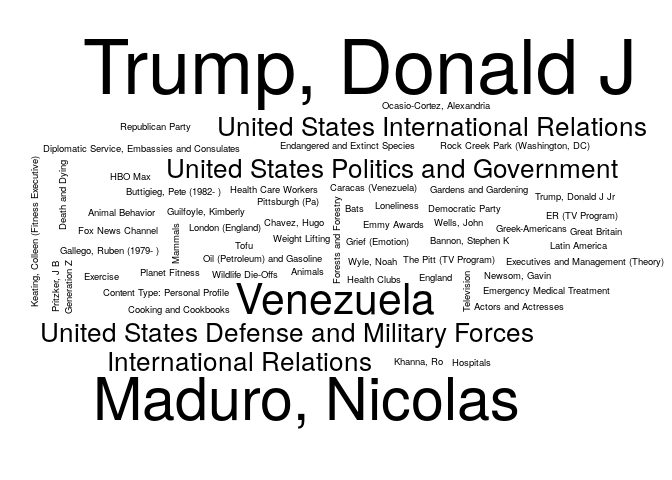
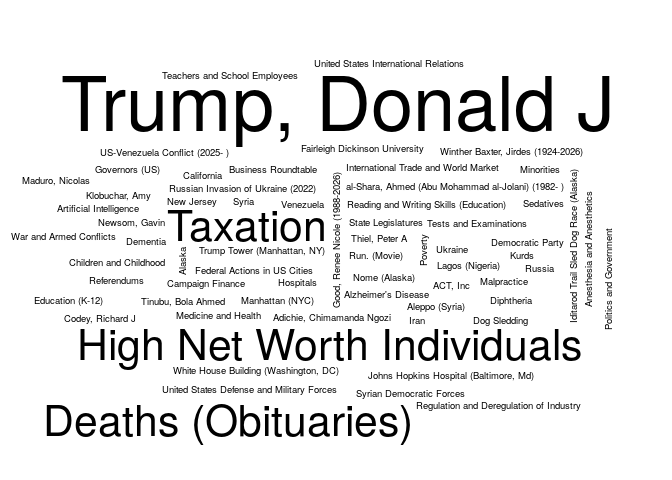
Updating the NYT report

Changed region(s): [[0.0, 0.0625, 1.0, 0.9375]]

diff --git a/03-nytimes/README.md b/03-nytimes/README.md
@@ -5,7 +5,7 @@ The following is an example of how to use the [NYTimes
 API](https://developer.nytimes.com/) to get a list of articles related
 to a particular term. Here we are searching articles that include the
 term `"health"`, and that were published up to seven days ago since
-2026-01-05.
+2026-01-12.
 
 ``` r
 # Preparing a function to use the GET method with the NYTimes API
@@ -83,25 +83,25 @@ colnames(tab) <- c("Keyword", "# Articles")
 knitr::kable(tab, row.names = FALSE)
 ```
 
-| Keyword                                   | \# Articles |
-|:------------------------------------------|------------:|
-| Trump, Donald J                           |          25 |
-| Maduro, Nicolas                           |          20 |
-| US-Venezuela Conflict (2025- )            |          20 |
-| Venezuela                                 |          15 |
-| International Relations                   |          10 |
-| United States Defense and Military Forces |          10 |
-| United States International Relations     |          10 |
-| United States Politics and Government     |          10 |
-| Actors and Actresses                      |           5 |
-| Animal Behavior                           |           5 |
-| Animals                                   |           5 |
-| Bannon, Stephen K                         |           5 |
-| Bats                                      |           5 |
-| Buttigieg, Pete (1982- )                  |           5 |
-| Caracas (Venezuela)                       |           5 |
-| Chavez, Hugo                              |           5 |
-| Content Type: Personal Profile            |           5 |
-| Cooking and Cookbooks                     |           5 |
-| Death and Dying                           |           5 |
-| Democratic Party                          |           5 |
+| Keyword                                           | \# Articles |
+|:--------------------------------------------------|------------:|
+| Trump, Donald J                                   |          15 |
+| Deaths (Obituaries)                               |          10 |
+| Demonstrations, Protests and Riots                |          10 |
+| High Net Worth Individuals                        |          10 |
+| Immigration and Customs Enforcement (US)          |          10 |
+| Taxation                                          |          10 |
+| United States Politics and Government             |          10 |
+| ACT, Inc                                          |           5 |
+| Adichie, Chimamanda Ngozi                         |           5 |
+| al-Shara, Ahmed (Abu Mohammad al-Jolani) (1982- ) |           5 |
+| Alaska                                            |           5 |
+| Aleppo (Syria)                                    |           5 |
+| Alzheimer’s Disease                               |           5 |
+| Anesthesia and Anesthetics                        |           5 |
+| Artificial Intelligence                           |           5 |
+| Business Roundtable                               |           5 |
+| California                                        |           5 |
+| Campaign Finance                                  |           5 |
+| Children and Childhood                            |           5 |
+| Codey, Richard J                                  |           5 |
